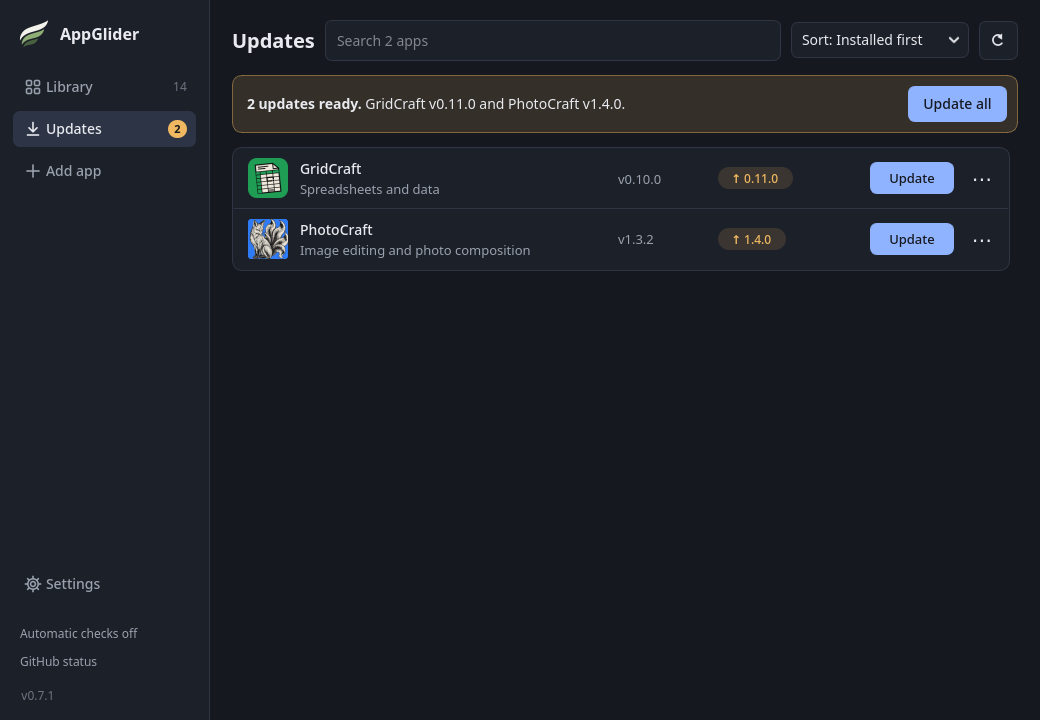
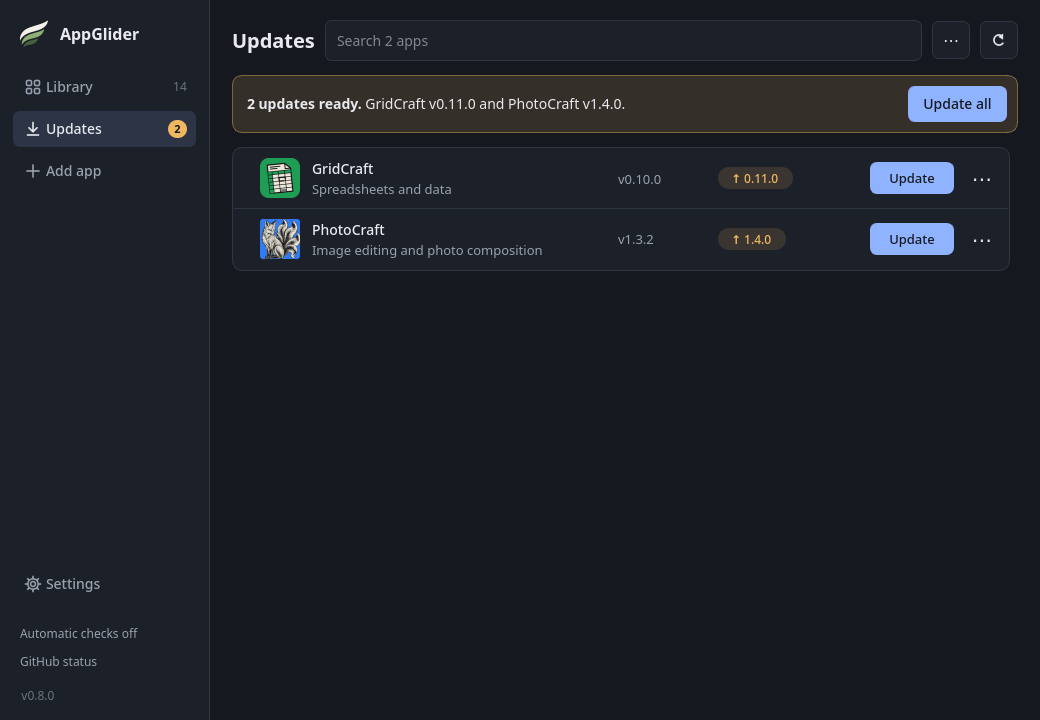
chore: release 0.8.0
Refresh the screenshots, mention starting at login in the README and merge the duplicate ordering entry in the roadmap.

Changed region(s): [[0.2154, 0.3056, 0.5231, 0.3667], [0.2154, 0.2139, 0.4308, 0.275], [0.7692, 0.0306, 0.9538, 0.0917]]

diff --git a/docs/roadmap.md b/docs/roadmap.md
@@ -25,8 +25,6 @@ change after discussion. Something being listed here is not a promise that it wi
   app with its release notes, versions, preferences and a Manage area. Settings and Add app
   are pages in the same window, and there are Light and Dark themes with a choice of
   accent colour (Blue, Green, Amber or Teal). The window works from the keyboard.
-- **Your own order:** drag rows into a custom order (or use **Move up** and **Move down**);
-  pinned apps stay on top.
 - **Start with my desktop:** an opt-in switch in Settings → General writes an autostart entry
   that opens AppGlider in the tray at login (`--tray`).
 - **Holding an app:** keep an installed app at its current version; it is still checked but
@@ -39,8 +37,9 @@ change after discussion. Something being listed here is not a promise that it wi
   after the project).
 - **Update notifications:** an optional desktop message when a scheduled check finds a new
   update, once per new version. It is off unless you turn it on in Settings.
-- **Ordering and pinning:** your own order (drag the rows, or **⋯ → Sort A–Z** in the
-  toolbar) and **Pin to top** on each app, remembered between runs.
+- **Ordering and pinning:** your own order (drag the rows by their handle, use **Move up**
+  and **Move down**, or **⋯ → Sort A–Z** in the toolbar) and **Pin to top** on each app,
+  remembered between runs.
 - **Example catalog built in:** an **Example catalog** button on the welcome screen and in the
   Settings → Catalogs section adds the ArtCraft apps and SolidCraft without downloading anything.
 - **Cheaper update checks:** checking an app that has not changed now asks GitHub's ordinary

diff --git a/README.md b/README.md
@@ -27,7 +27,8 @@ made up.*
 - Lets you choose stable releases only, or try previews, for each app, and read the release
   notes on the app's own page before you update.
 - Can hold an app at its current version so it is never offered an update.
-- Adds a menu entry for each app it installs and can sit in your system tray.
+- Adds a menu entry for each app it installs, can sit in your system tray and can start
+  quietly in the tray when you log in.
 - Keeps your apps in your own order (drag the rows, or sort A–Z) and lets you pin favourites to the top.
 - Can show a desktop notification when new updates are found (off unless you turn it on).
 - Shares lists of apps as plain text files you can read, edit and import

diff --git a/THIRD_PARTY_NOTICES.md b/THIRD_PARTY_NOTICES.md
@@ -26,7 +26,7 @@ including reverse engineering to debug those modifications, under the applicable
 To use replacement libraries, extract the AppImage into a writable directory:
 
 ```sh
-./AppGlider-0.7.1-linux-x86_64.AppImage --appimage-extract
+./AppGlider-0.8.0-linux-x86_64.AppImage --appimage-extract
 ./squashfs-root/AppRun
 ```
 
